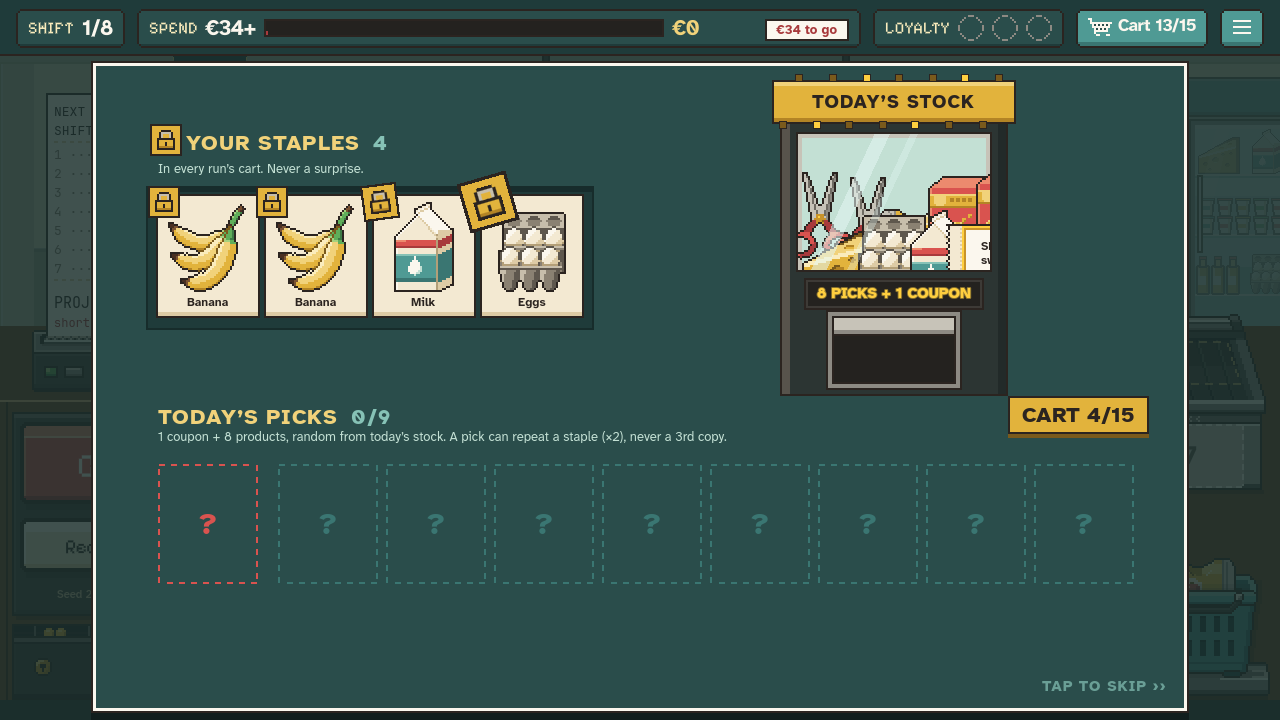
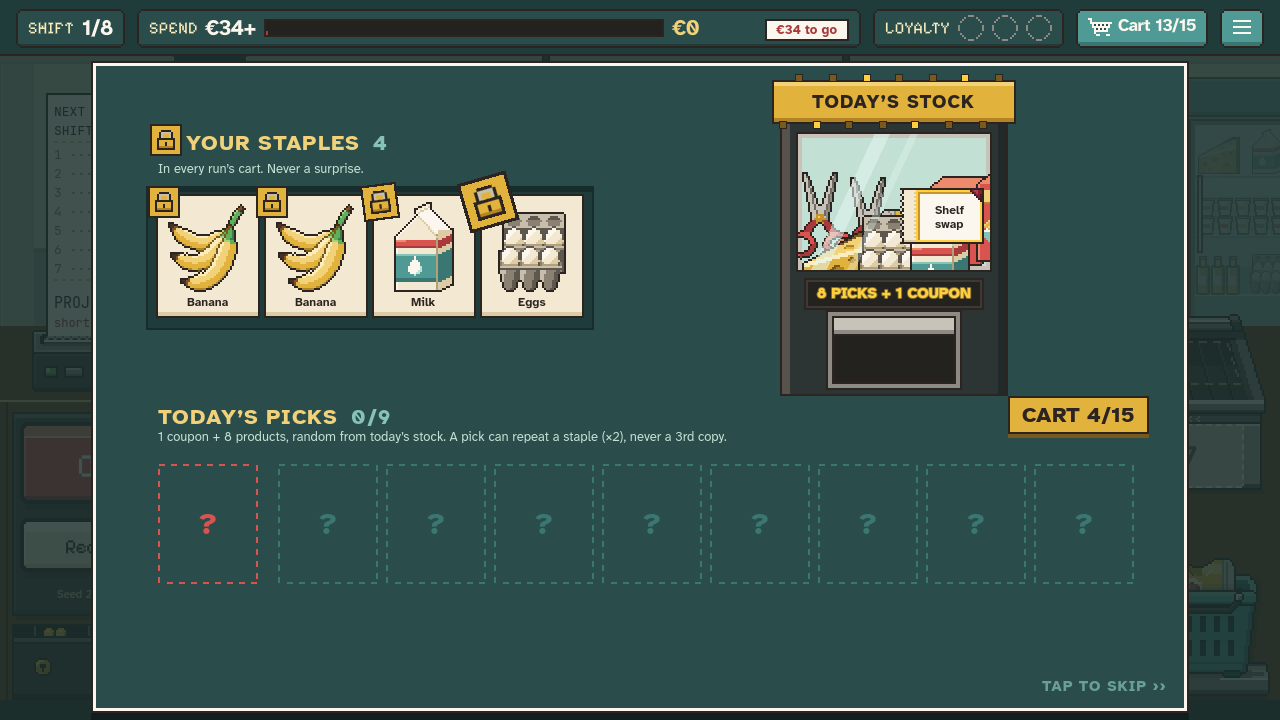
Fix the cart reveal review findings
Start shift 1's time to checkout when the reveal folds away, not under
it, and hold the machine's notice until then (MachineFlow.hold_notice),
so log_summary and row_calibration no longer count the reveal.

Add RevealPanel.MAX_STAPLES / MAX_PICKS and fits(), with a data test
that fails with a clear message when a recipe in data/decks needs more
tiles than the layout holds; state the limit in DeckDefinition.

Test one tile per coupon of the pool and per chained product (as a
pick and a staple's 2nd copy): names fit, a slip's wrapped name stays
on the slip, badges stay in the tile's badge margin.

Put a coupon on the dispenser heap's back row, whole inside the glass,
so its slip is never cut; the heap's geometry stays the mock-up's.

Reword the Cart page marks' doc: they go by product, so a later copy
of a marked product shares its line's marks.

Give ui/shift_screen.gd room under the 1000-line limit: _names moves
to CardInstance.names and best_earlier_total to CountUpContext.

Docs: section 7.2 and the v0.51 row (the timer, the marks, the layout
limit, Repeat as a starting coupon for the balance pass watch list).
Re-captured the reveal stills.

Changed region(s): [[0.6875, 0.2444, 0.7812, 0.3972]]

diff --git a/docs/FULL_BUILD_PLAN.md b/docs/FULL_BUILD_PLAN.md
@@ -398,7 +398,7 @@ Rewards draw from the stock through the RECEIPT REWARDS machine (section 5.4, #7
 
 **The starting deck (v0.49, decided with the user on 2026-10-22; its coupon random since v0.51, 2026-10-23):** the game's deck is a recipe, `data/decks/random_starter.tres`: 4 fixed cards, the staples every run starts with (`core_cards`: Banana ×2, Milk, Eggs), plus `random_coupon_count` (1) coupon drawn from the run's coupon pool and `random_count` (8) products drawn from the run's stock, 13 cards, with no pre-run screen (the cart reveal below shows the deal). Until v0.51 the coupon was a fixed Final markdown, the 5th core card. The coupon is drawn first, equally likely among the stock's coupons (all of `coupon_pool`, section 5.1), then the products. A product can be drawn only if it has an item-tier chain (section 5.4: today the 20 fresh-stock products, never a capsule product), so UPGRADES can grow every starting card, and the deck never holds more than `copy_max` (2) copies of a card, its core copies included. Each draw picks one of the products still below the limit, equally likely; a stock with too few ends the deal short. `StartingDeck.deal` (`core/`) draws on the run seed's derived stream `starting_deck` (beside `surprise_list`), after the stock is built, so the same seed and profile give the same deck and the run's own RNG draws exactly as before. The dealt deck keeps the recipe's id and lists its cards in order: the core cards, the coupon, then the products in stock order; the run save holds them (section 4; a save whose cards the recipe can't deal, such as a v0.49 deal with Final markdown among its core cards, is refused and backed up, and a new run starts), and `run_start`'s `starting_deck` logs them (no field changes). `data/decks/starter.tres` (the 13 fixed cards the game started with until v0.49) stays the fixed deck of the tests and of the simulator's `--deck`; `--random-start` plays the recipe (section 8). Because the deck now holds staples it didn't before, NEW ITEMS' guarantee prefers, in each rarity tier, a `generally_useful` product the deck doesn't hold yet (section 5.4). `deck_limit` (15) and `coupon_slot_count` (1) are unchanged; the balance is measured once at the end of phase 3 (TODO(S2)). A dealt deck holds up to 12 distinct cards (500 seeds on a new profile: 8 distinct 3 %, 9 21 %, 10 46 %, 11 25 %, 12 5 %), so in about 3 of 4 runs the Cart page has more than one row of products (8 per row) and scrolls inside its fixed area (the fixed starter's page fit unscrolled; `tests/ui/deck_view_ui_test.gd` checks both cases); flagged for the user's play test. **Later profiles:** only chained products are drawn and capsule products have no chains, so a list of two machine-opened aisles (Fruit & veg, Bakery or Snacks) leaves only the 6 staples, whose room under `copy_max` is exactly 8: its products are forced, every seed gets Milk, Eggs, Bread ×2, Coffee ×2 and Soup ×2 on top of the staples, and only the coupon still varies (v0.51); one base aisle and one machine-opened aisle leave about 11 drawable products. A data test holds the staples' room at `random_count` or more, and a core test deals 13 cards from every two-aisle list (and pins the forced products), so a change to the staples, `copy_max` or the chains shows (TODO(S2): the user decides whether capsule products join the draw, with their tiers).
 
-**The cart reveal (v0.51, decided with the user on 2026-10-23: variant A "dispenser" of mock-up `docs/art/mockups/cart_reveal_v1.html`):** a new run the player starts (the title's New run or first start, the results' New run, the debug panel's new run with a seed) opens on a panel over shift 1's planning (`ui/cart_reveal/`, `CartReveal`), after the run is dealt and saved; a resumed run never shows it (quitting during it resumes shift 1 without it). The title asks for it (`CartReveal.request()`) before it opens the shift screen, so a screen opened any other way (the tests, the captures) starts without it. YOUR STAPLES: the 4 core cards are already in the cart in their tray, each with a mustard padlock that clunks on ("In every run’s cart. Never a surprise."). TODAY'S PICKS: the coupon (its own tomato tile, a scissors-line border and a COUPON tab) and the 8 products drop one by one out of a small TODAY'S STOCK dispenser drawn in code in the RECEIPT REWARDS machine's language (mustard marquee with chasing bulbs, slate cabinet, a glass window holding the picks in a heap, an LED, a chute with a swinging flap) and arc into their slots with a pop, a white flash and sparkles; a pick that repeats a staple carries a padlock ×2, the others a teal "+". The heap drains to SOLD OUT, the LED reads DISPENSING n/9 then CART READY ✓, the CART chip counts the landings, and the panel ends on the summary "CART 13/15 = 4 staples + 1 coupon + 8 from today’s stock" and TAP TO START SHIFT 1. About 3 s; a tap (a click anywhere, Space, Enter or Esc) skips to the summary, and the next folds the panel into the Cart button (its ring flashes) and shift 1's planning goes on. It takes every click while open and dims the store under the top bar. With reduced motion it opens on the summary and the tap closes it. Its timings are data (`data/balance/cart_reveal.tres`, `CartRevealTuning`); its sounds are the game's (ui_open, stamp, tick, card_place, tag, ding, shuffle); it uses the existing sprites (padlock, sparkle, coupon token, item art) and draws the rest in code. Pure display: no event is logged for it. **The Cart page keeps the marks for the run** (`DeckView`): a staple (a core product, any tier) carries the mustard padlock at the left of its count line, a starting pick the teal "+" (the coupon the tomato token) at its right, both on a staple's 2nd copy; a card only the machine gave carries none. Deviation from the mock-up: the heap in the dispenser's window holds the run's own picks (the mock-up showed a random heap), so it drains exactly as they come out.
+**The cart reveal (v0.51, decided with the user on 2026-10-23: variant A "dispenser" of mock-up `docs/art/mockups/cart_reveal_v1.html`):** a new run the player starts (the title's New run or first start, the results' New run, the debug panel's new run with a seed) opens on a panel over shift 1's planning (`ui/cart_reveal/`, `CartReveal`), after the run is dealt and saved; a resumed run never shows it (quitting during it resumes shift 1 without it). The title asks for it (`CartReveal.request()`) before it opens the shift screen, so a screen opened any other way (the tests, the captures) starts without it. YOUR STAPLES: the 4 core cards are already in the cart in their tray, each with a mustard padlock that clunks on ("In every run’s cart. Never a surprise."). TODAY'S PICKS: the coupon (its own tomato tile, a scissors-line border and a COUPON tab) and the 8 products drop one by one out of a small TODAY'S STOCK dispenser drawn in code in the RECEIPT REWARDS machine's language (mustard marquee with chasing bulbs, slate cabinet, a glass window holding the picks in a heap, an LED, a chute with a swinging flap) and arc into their slots with a pop, a white flash and sparkles; a pick that repeats a staple carries a padlock ×2, the others a teal "+". The heap drains to SOLD OUT, the LED reads DISPENSING n/9 then CART READY ✓, the CART chip counts the landings, and the panel ends on the summary "CART 13/15 = 4 staples + 1 coupon + 8 from today’s stock" and TAP TO START SHIFT 1. About 3 s; a tap (a click anywhere, Space, Enter or Esc) skips to the summary, and the next folds the panel into the Cart button (its ring flashes) and shift 1's planning goes on. It takes every click while open and dims the store under the top bar. With reduced motion it opens on the summary and the tap closes it. Its timings are data (`data/balance/cart_reveal.tres`, `CartRevealTuning`); its sounds are the game's (ui_open, stamp, tick, card_place, tag, ding, shuffle); it uses the existing sprites (padlock, sparkle, coupon token, item art) and draws the rest in code. Pure display: no event is logged for it, and shift 1's time to checkout (section 8) starts when it folds away, not under it (the machine's notice pulses then too). **The Cart page keeps the marks for the run** (`DeckView`): a staple (a core product, any tier) carries the mustard padlock at the left of its count line, a starting pick the teal "+" (the coupon the tomato token) at its right, both on a staple's 2nd copy. The marks go by product, per count line: they show which products the run started with, so a later copy of a marked product (another Milk, a BIG Cheese from NEW ITEMS) shares its line's marks (copies carry no origin in the save), and only a product the deal didn't hold carries none. The layout holds at most 4 core cards and 9 dealt cards (`RevealPanel.fits`, a data test checks every recipe). Deviation from the mock-up: the heap in the dispenser's window holds the run's own picks (the mock-up showed a random heap), so it drains exactly as they come out; the coupon's slip sits on the heap's back row, whole inside the glass.
 
 Until #77 the reward printed from the receipt as the reward print-out: coupons plus promo products (stocked products on special offer). Since #77 the receipt feeds the machine instead.
 
@@ -585,4 +585,4 @@ Content freeze at the end of phase 3. No new features after that.
 | v0.47 | 2026-10-22 | The machine's two states (phase 3, a follow-up of #77; `docs/PROTOTYPE_PLAN.md` v0.40), decided with the user on 2026-10-22 (sections 3, 4, 5.2–5.4, 6.1–6.3 and 8); playtest-facing, **rule change** · a visit is **Normal** (NEW ITEMS and COUPONS lit, both binnable) or **BOOSTED** (REGISTER and UPGRADES lit): the ticket visit after shifts 3, 5 and 7 is BOOSTED (`boosted_shifts` in `machine.tres`, replacing `upgrades_open_shifts`), every other ticket visit and every BONUS visit is Normal, and STAMP DAY is unchanged · a BOOSTED visit with nothing to draw (REGISTER full or nothing fits, and nothing to improve) falls back to Normal (its REGISTER and UPGRADES keys then say CARD FULL or NOTHING TO IMPROVE), and one with only one of the two lights only that one; a visit with no lit chute that can draw is skipped · all four keys stay on the machine, an unlit one padlocked ("NORMAL VISITS ONLY", "BOOSTED AFTER SHIFT n", "BOOSTED VISITS ONLY") · the BOOSTED marker: the head plate's "BOOSTED!" stamp with `stamp_notice`, the display's "· BOOSTED VISIT" and the title's "· boosted" · **removed: the Regular meter** (the REGULAR n/3 line, the punch meters, their punch and `stamp_2`, and the odds card's "next visit here"): every visit after a shift draws at that shift's odds level (`shift_odds_levels`: shifts 1–2 level 0, 3–4 level 1, 5–6 level 2, 7 level 3); the odds card shows the current odds · **save format 3** (the machine saves no levels and the visit whether it is BOOSTED; a version 2 save is backed up as `run.json.bad` and a new run starts) · **telemetry exception to "additive"** (section 3): `machine_visit` gains `state` (`normal`, `boosted` or `stamp_day`) and loses `level_before`, `levels` and `meter_rose`; `tools/log_summary.py` reports the visits by state instead of the Regular levels and still reads old logs · the simulator follows the lit chutes and reports the visits per run by state instead of the Regular levels · no scoring rule, card or golden row changes · the balance is measured once at the end of phase 3 (TODO(S2)) |
 | v0.48 | 2026-10-22 | Item tiers for the rest of the fresh stock (phase 3; `docs/PROTOTYPE_PLAN.md` v0.41 section 5), decided with the user on 2026-10-22 (sections 4, 5.4 and 7.2); playtest-facing, **content change** · Bread, Soup, Cheese, Frozen peas, Butter, Yogurt, Reduced yogurt, Cereal, Tea bags, Crackers, Dented can, Day-old buns, Carrier bag, Scissors, Batteries and Flickering bulb each get a BIG and a GOLDEN card (`data/cards/<id>_big.tres`, `_golden.tres`, 32 cards, on the #99 sprites in `art/items_v2/`), a chain in `data/item_upgrades/` and a line in `machine.tres`'s `item_upgrades`, so UPGRADES can improve every product a new profile stocks (20 chains, 40 tier cards) · the tier rule, from the starter chains: BIG +2 base, rule unchanged; GOLDEN keeps BIG's base and doubles the bonus (charge cards +1 charge: Golden Tea bags ×4 on the next 2 Breakfast payouts; Golden Frozen peas counts its base twice); Bread and Soup +2 base at each step (7, 9; Golden Soup still pays 0 beside Frozen); hand-set: Golden Carrier bag +7 per earlier Food (doubling would give +10 each); Dented can and Flickering bulb follow the rule (no downside in their data) · tiers stay never stocked, catalogued or unlocked, count as their plain card everywhere ("same product": Cheese after a Big Bread, Cereal beside a Golden Milk) and show their plain card's sticker mini · the 30 capsule products stay plain (decided 2026-10-22; their tiers are a later task) · long tier names fit their labels: the scanner bay's name label shows the plain product's name when a BIG or GOLDEN name is too long for it even at its smallest size (the item's art shows the tier, the monitor's scan names it in full), the monitor's scan name steps down to 14 and 12 px beside "pays €N", and an UPGRADES ticket's name line steps down to 9 and 8 px, else folds to two lines (its text below steps down too); UI tests check every card and every chain · data tests: every chain complete and on the tier rule (or its documented exception), UPGRADES can step every chained product, the new values and stickers · all numbers are `@export` placeholders, tuned in the final balance pass (no balance run for this step) |
 | v0.49 | 2026-10-22 | The random starting deck (phase 3; `docs/PROTOTYPE_PLAN.md` v0.42), decided with the user on 2026-10-22 (sections 2, 4, 5.2, 5.4, 7.2, 7.3 and 8); playtest-facing, **content change**, build label `fb-p3` · the game's deck is a recipe (`data/decks/random_starter.tres`, `DeckDefinition.core_cards`, `random_count`, `copy_max`): 5 fixed cards (Banana ×2, Milk, Eggs, Final markdown) plus 8 products drawn from the run's stock that have an item-tier chain, at most 2 copies of a product, 13 cards, no pre-run screen · dealt by `StartingDeck` on the run seed's derived stream `starting_deck` (beside `surprise_list`), so the run's own RNG draws as before and the same seed and profile give the same deck · **the staples are their own list** (`BalanceDefinition.staples`, Banana, Bread, Milk, Eggs, Coffee, Soup, in the old order), no longer derived from the deck, so a new profile's stock is unchanged (`RunStock.build` and `starting` no longer take a deck) · `data/decks/starter.tres` stays the fixed deck of the tests and the simulator's `--deck`; the catalogue lists both decks · NEW ITEMS' guarantee prefers, in each rarity tier, the stocked `generally_useful` products the deck holds no copy of (a tier with none left keeps all its useful products, so the guarantee holds as often as before) · **save format 4**: the run save holds the dealt cards (`starting_deck`), so a resumed run keeps its deal; a version 3 save is backed up as `run.json.bad` and a new run starts · telemetry: `run_start`'s `starting_deck` logs the dealt card ids (no field changes) · the simulator's `--random-start` deals the recipe for each run as the game does (not with `--deck`) · data tests: the staples hold 2 generally useful products, every deck's fixed and core cards are staples, the staples alone fill the deal · `deck_limit` 15 and `coupon_slot_count` 1 unchanged · no scoring rule, card value or golden row changes · the balance is measured once at the end of phase 3 (TODO(S2)) |
-| v0.51 | 2026-10-23 | The cart reveal and the random coupon (phase 3; `docs/PROTOTYPE_PLAN.md` v0.43), decided with the user on 2026-10-23 (sections 2, 4 and 7.2); playtest-facing, **content change**, build label `fb-p3` unchanged · **the starting deck's coupon is random:** `data/decks/random_starter.tres` is 4 fixed cards (Banana ×2, Milk, Eggs) plus `random_coupon_count` (1, a new `DeckDefinition` field) coupon drawn from the run's coupon pool and 8 products, at most 2 copies of a card, 13 cards; the coupon is drawn first on the `starting_deck` stream, so every seed deals a new deck (no run RNG change) · `StartingDeck.could_deal` accepts the core cards, then up to `random_coupon_count` coupons, then up to `random_count` products; a v0.49 deal (Final markdown among the core cards) is refused, so such a save is backed up and a new run starts (save format 4 unchanged) · telemetry: `run_start`'s `starting_deck` now holds the dealt coupon after the staples (no field changes) · the simulator's `--random-start` deals the coupon as the game does · **the cart reveal** (variant A "dispenser" of mock-up `cart_reveal_v1.html`, section 7.2): at the start of a new run, never on resume, the staples with their padlocks, then the coupon and the 8 picks dropping out of the TODAY'S STOCK dispenser into the cart, SOLD OUT, the summary line, then the fold into the Cart button; about 3 s, a tap skips; reduced motion opens on the summary; timings in `data/balance/cart_reveal.tres` · the Cart page marks staples (padlock) and starting picks ("+", the coupon's token) for the whole run · the screen capture's `--reveal=<seconds>[,outro=<s>][,seed=<n>]` records it · no scoring rule, card value or golden row changes; the balance is measured once at the end of phase 3 (TODO(S2)) |
+| v0.51 | 2026-10-23 | The cart reveal and the random coupon (phase 3; `docs/PROTOTYPE_PLAN.md` v0.43), decided with the user on 2026-10-23 (sections 2, 4 and 7.2); playtest-facing, **content change**, build label `fb-p3` unchanged · **the starting deck's coupon is random:** `data/decks/random_starter.tres` is 4 fixed cards (Banana ×2, Milk, Eggs) plus `random_coupon_count` (1, a new `DeckDefinition` field) coupon drawn from the run's coupon pool and 8 products, at most 2 copies of a card, 13 cards; the coupon is drawn first on the `starting_deck` stream, so every seed deals a new deck (no run RNG change) · `StartingDeck.could_deal` accepts the core cards, then up to `random_coupon_count` coupons, then up to `random_count` products; a v0.49 deal (Final markdown among the core cards) is refused, so such a save is backed up and a new run starts (save format 4 unchanged) · telemetry: `run_start`'s `starting_deck` now holds the dealt coupon after the staples (no field changes) · the simulator's `--random-start` deals the coupon as the game does · **the cart reveal** (variant A "dispenser" of mock-up `cart_reveal_v1.html`, section 7.2): at the start of a new run, never on resume, the staples with their padlocks, then the coupon and the 8 picks dropping out of the TODAY'S STOCK dispenser into the cart, SOLD OUT, the summary line, then the fold into the Cart button; about 3 s, a tap skips; reduced motion opens on the summary; timings in `data/balance/cart_reveal.tres` · the Cart page marks staples (padlock) and starting picks ("+", the coupon's token) for the whole run · the screen capture's `--reveal=<seconds>[,outro=<s>][,seed=<n>]` records it · no scoring rule, card value or golden row changes; the balance is measured once at the end of phase 3 (TODO(S2)) · balance watch item for that pass: Repeat is in the coupon pool, so it can be the starting coupon beside the Milk and Eggs staples, the Eggs → Milk → Repeat chain that `docs/PROTOTYPE_PLAN.md` v0.29 moved away from (Repeat 22.9% against Final markdown 37.5%); compare `--random-start` runs grouped by starting coupon |
